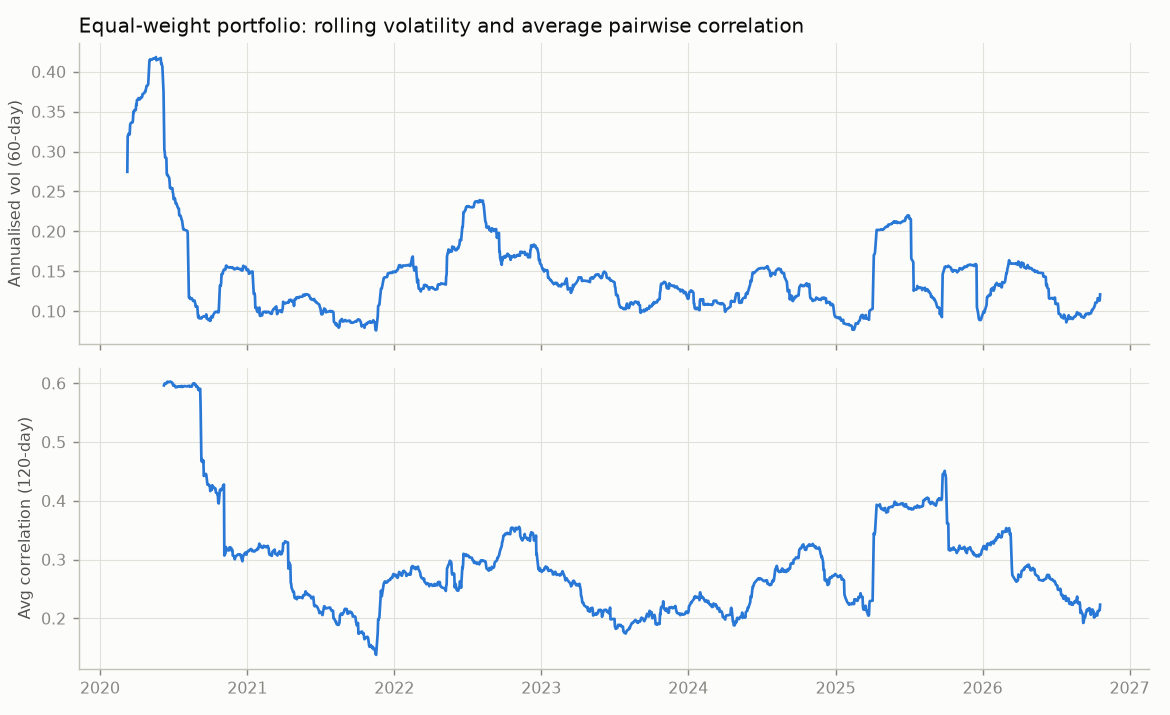
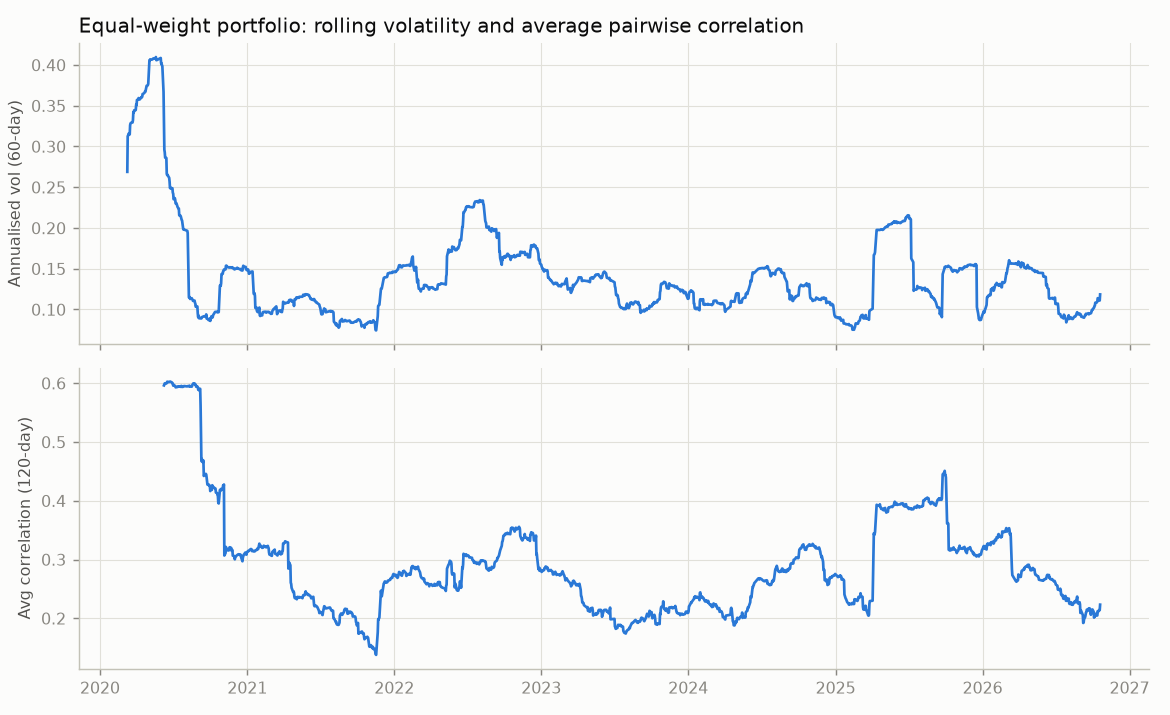
Annualise by observations per calendar year

diff --git a/tailwise/allocation.py b/tailwise/allocation.py
@@ -12,7 +12,7 @@ from scipy.optimize import minimize
 
 from .covariance import H, METHODS, SEED, WINDOW
 from .data import ROOT, load_returns
-from .eda import BLUE, DAYS, ORANGE
+from .eda import BLUE, ORANGE, per_year
 
 OUT = ROOT / "results" / "phase6"
 COST_BPS = 15  # one-way, per unit traded: roughly Tadawul commission; ignores spread and impact
@@ -77,12 +77,12 @@ def block_bootstrap_diff(a, b, stat, block=21, reps=2000, seed=SEED):
     return np.percentile(out, [2.5, 97.5])
 
 
-def ann_vol(r):
-    return r.std() * np.sqrt(DAYS)
+def ann_vol(r, ppy):
+    return r.std() * np.sqrt(ppy)
 
 
-def ann_ret(r):
-    return np.prod(1 + r) ** (DAYS / len(r)) - 1
+def ann_ret(r, ppy):
+    return np.prod(1 + r) ** (ppy / len(r)) - 1
 
 
 def run():
@@ -92,6 +92,8 @@ def run():
     targets = target_weights(x)
     first = targets["equal_weight"][0][0]
     dates = rets.index[first:]
+    ppy = per_year(dates, rets.index[first - 1])
+    vol, ret = (lambda r: ann_vol(r, ppy)), (lambda r: ann_ret(r, ppy))
     wts = pd.DataFrame({(s, rets.index[i].date()): w for s, tw in targets.items() for i, w in tw}, index=rets.columns).T
     wts.to_csv(OUT / "weights.csv", float_format="%.4f")
 
@@ -101,14 +103,14 @@ def run():
         ew = sims["equal_weight"][0]
         for s, (r, to) in sims.items():
             w = np.array([w for _, w in targets[s]])
-            row = dict(strategy=s, cost_bps=c, ann_return=ann_ret(r), ann_vol=ann_vol(r), max_drawdown=max_drawdown(r),
+            row = dict(strategy=s, cost_bps=c, ann_return=ret(r), ann_vol=vol(r), max_drawdown=max_drawdown(r),
                        avg_turnover=to[1:].mean(), avg_max_weight=w.max(axis=1).mean(),
                        avg_effective_n=(1 / (w ** 2).sum(axis=1)).mean())
             if s != "equal_weight":
-                row["vol_diff_vs_ew"] = row["ann_vol"] - ann_vol(ew)
-                row["vol_diff_ci_low"], row["vol_diff_ci_high"] = block_bootstrap_diff(r, ew, ann_vol)
-                row["ret_diff_vs_ew"] = row["ann_return"] - ann_ret(ew)
-                row["ret_diff_ci_low"], row["ret_diff_ci_high"] = block_bootstrap_diff(r, ew, ann_ret)
+                row["vol_diff_vs_ew"] = row["ann_vol"] - vol(ew)
+                row["vol_diff_ci_low"], row["vol_diff_ci_high"] = block_bootstrap_diff(r, ew, vol)
+                row["ret_diff_vs_ew"] = row["ann_return"] - ret(ew)
+                row["ret_diff_ci_low"], row["ret_diff_ci_high"] = block_bootstrap_diff(r, ew, ret)
             rows.append(row)
             if c == COST_BPS:
                 daily[s] = r

diff --git a/tailwise/eda.py b/tailwise/eda.py
@@ -9,10 +9,9 @@ import pandas as pd
 from matplotlib.colors import LinearSegmentedColormap
 from scipy import stats
 
-from .data import ROOT, UNIVERSE, load_returns, load_tasi_returns
+from .data import ROOT, START, UNIVERSE, load_returns, load_tasi_returns
 
 OUT = ROOT / "results" / "phase1"
-DAYS = 250  # annualisation convention; Tadawul has ~245-250 sessions a year
 BLUE, ORANGE, INK2, MUTED = "#2a78d6", "#eb6834", "#52514e", "#898781"
 SEQ = LinearSegmentedColormap.from_list("blues", ["#f0efec", "#86b6ef", "#2a78d6", "#0d366b"])
 
@@ -24,12 +23,18 @@ plt.rcParams.update({
 })
 
 
-def summary(r):
+def per_year(dates, start):
+    """Return observations per calendar year, `start` being the price date before the first return.
+    About 240 here, not 250: a return that spans sessions Yahoo lacks still covers real time."""
+    return len(dates) / ((dates[-1] - pd.Timestamp(start)).days / 365.25)
+
+
+def summary(r, ppy):
     """Per-series annualised vol/mean, skew, excess kurtosis, tail frequency vs a normal."""
     z = (r - r.mean()) / r.std()
     return pd.DataFrame({
-        "ann_vol": r.std() * np.sqrt(DAYS),
-        "ann_mean": r.mean() * DAYS,
+        "ann_vol": r.std() * np.sqrt(ppy),
+        "ann_mean": r.mean() * ppy,
         "skew": r.skew(),
         "excess_kurt": r.kurt(),
         "min": r.min(),
@@ -47,7 +52,8 @@ def run():
     tasi = load_tasi_returns()
     # align TASI to the return dates; an extra all-NaN row would change the tail-frequency denominators
     table = pd.concat([rets, ew] + ([tasi.loc[rets.index].rename("TASI")] if tasi is not None else []), axis=1)
-    s = summary(table)
+    ppy = per_year(rets.index, START)
+    s = summary(table, ppy)
     s.insert(0, "name", [UNIVERSE.get(c, c) for c in s.index])
     s.to_csv(OUT / "summary_stats.csv", float_format="%.5f")
 
@@ -69,7 +75,7 @@ def run():
     plt.close(fig)
 
     # rolling risk: EW volatility and average pairwise correlation, two panels sharing time (no dual axis)
-    roll_vol = ew.rolling(60).std() * np.sqrt(DAYS)
+    roll_vol = ew.rolling(60).std() * np.sqrt(ppy)
     n = rets.shape[1]
     roll_corr = rets.rolling(120).corr().groupby(level=0).apply(lambda m: (m.values.sum() - n) / (n * n - n))
     fig, (a1, a2) = plt.subplots(2, 1, figsize=(9, 5.5), sharex=True)

diff --git a/tailwise/covariance.py b/tailwise/covariance.py
@@ -12,12 +12,13 @@ from arch import arch_model
 from scipy import stats
 
 from .data import ROOT, load_returns
-from .eda import DAYS  # also applies the shared plot style
+from . import eda  # noqa: F401  applies the shared plot style
 
 OUT = ROOT / "results" / "phase2"
 WINDOW = 250  # rolling estimation window, about one year
 H = 21  # forecast horizon and step, about one month; origins do not overlap
 SEED = 2026
+DAYS = 250  # chart axis only (forecast vs realised, annualised); see README known limitations
 N_RANDOM = 5
 COLORS = {"sample_250": "#2a78d6", "sample_expanding": "#eb6834", "ledoit_wolf_250": "#1baf7a", "garch_ccc": "#6250d6"}
 

diff --git a/tests/test_allocation.py b/tests/test_allocation.py
@@ -1,4 +1,5 @@
 import numpy as np
+import pandas as pd
 import pytest
 
 from tailwise import allocation as al
@@ -41,3 +42,9 @@ def test_simulate_costs_and_drift():
     drifted = np.array([0.55, 0.5]) / 1.05
     assert to[1] == pytest.approx(np.abs(np.array([0.5, 0.5]) - drifted).sum())
     assert r[5] == pytest.approx(0.05)
+
+
+def test_per_year_counts_observations_per_calendar_year():
+    from tailwise.eda import per_year
+    dates = pd.date_range("2021-01-04", "2021-12-31", periods=240)
+    assert per_year(dates, "2020-12-31") == pytest.approx(240, rel=0.01)

diff --git a/README.md b/README.md
@@ -113,8 +113,10 @@ correction (as a vendor would make), not a model input.
 
 Full-sample descriptive statistics (`results/phase1/summary_stats.csv`), not used by any model.
 
-- **Volatility:** annualised volatility ranges from 17% (Aramco) to 35% (Ma'aden). The equal-weight
-  (EW) portfolio runs at 16%, well below any single stock: diversification does real work here.
+- **Volatility:** annualised volatility ranges from 16.5% (Aramco) to 34.6% (Ma'aden). The
+  equal-weight (EW) portfolio runs at 15.3%, well below any single stock: diversification does
+  real work here. Annualised with the panel's 240 observations per calendar year (see Known
+  Limitations 3 and 18).
 - **Correlation:** mean pairwise correlation is 0.32. Banks form the tightest block (up to 0.61),
   followed by the petrochemicals. Healthcare, insurance, and Ma'aden are the least connected.
   The 120-day average correlation swung from 0.60 (2020) to 0.14 (late 2021), so a single
@@ -123,8 +125,8 @@ Full-sample descriptive statistics (`results/phase1/summary_stats.csv`), not use
   excess kurtosis 11.6 and skew −0.87: moves beyond 3 standard deviations happen on 1.16% of
   days versus 0.27% under a normal, and the large ones are mostly on the downside.
   This is a first warning for any normal (parametric) VaR.
-- **Volatility clustering:** 60-day EW volatility ranged from about 8% to 42% (peak May 2020).
-- **TASI** (price index, same dates): volatility 15.4%, skew −1.17, excess kurtosis 12.6, moves
+- **Volatility clustering:** 60-day EW volatility ranged from about 7% to 41% (peak May 2020).
+- **TASI** (price index, same dates): volatility 15.1%, skew −1.17, excess kurtosis 12.6, moves
   beyond 3 standard deviations on 1.28% of days. The market index is as fat-tailed as the
   portfolio.
 
@@ -422,24 +424,25 @@ Full results: `results/phase6/performance.csv`.
 
 | Strategy (15 bps) | Return p.a. | Volatility p.a. | Max drawdown | Monthly turnover | Effective no. of stocks |
 |---|---|---|---|---|---|
-| equal_weight | 7.8% | 13.8% | 20.3% | 5% | 24 |
-| min_var_sample_250 | 7.2% | 11.6% | 18.8% | 20% | 5.1 |
-| min_var_garch_ccc | 4.8% | 11.6% | 23.9% | 63% | 5.6 |
+| equal_weight | 7.5% | 13.5% | 20.3% | 5% | 24 |
+| min_var_sample_250 | 6.8% | 11.3% | 18.8% | 20% | 5.1 |
+| min_var_garch_ccc | 4.6% | 11.3% | 23.9% | 63% | 5.6 |
 
-Volatility vs equal-weight: −2.2 points for both, 95% CI about (−2.8, −1.4): **significant**.
-Return vs equal-weight: −0.6 points for sample (CI −7.6 to +5.5) and −3.0 for GARCH (CI −10.7 to
-+3.5): **not significant**.
+Returns and volatilities are annualised with the observations per calendar year in the test
+period (about 239). Volatility vs equal-weight: −2.1 points for both, 95% CI about (−2.8, −1.4):
+**significant**. Return vs equal-weight: −0.6 points for sample (CI −7.2 to +5.3) and −2.9 for
+GARCH (CI −10.2 to +3.3): **not significant**.
 
 ![Min-variance vs equal-weight](results/phase6/cumulative.png)
 
 **What this says**
 
-- **Minimum variance does what it promises:** about 2.2 points lower volatility than
+- **Minimum variance does what it promises:** about 2.1 points lower volatility than
   equal-weight, a reduction the bootstrap says is real.
 - **The better covariance forecast does not make a better portfolio.** GARCH-CCC gives exactly
   the same volatility reduction as the plain sample covariance, but trades three times as much
   (63% vs 20% of the portfolio a month) because its volatility forecasts move every month. After
-  costs it returns 2.4 points a year less than the sample version and has the deepest drawdown
+  costs it returns 2.3 points a year less than the sample version and has the deepest drawdown
   of the three (23.9%, April–December 2022). Phase 2's small, insignificant forecasting edge does
   not survive contact with an optimiser and costs.
 - **The portfolios are concentrated.** Half of the 24 stocks get zero weight; on average the
@@ -503,10 +506,11 @@ Kept up to date as the project goes.
 17. **Price index vs total return.** TASI excludes dividends, so all benchmark comparisons use
     price returns. Saudi dividend yields are high (about 3.4 points a year for the equal-weight
     portfolio here), so comparing a total-return portfolio with TASI would overstate it.
-18. **Inconsistent annualisation.** Phases 1 and 6 annualise with 250 observations a year, but
-    the panel has about 240 because of the sessions Yahoo lacks (limitation 3); this overstates
-    annualised returns there by roughly 4% of their value (e.g. 7.8% would be about 7.5%) and
-    volatilities by about 2%. The benchmark section annualises by calendar time and is not
-    affected. Left as is so that adding TASI changed no earlier result.
+18. **Annualisation.** Daily statistics are annualised with the number of observations per
+    calendar year (about 240), not the usual 250, because returns that span sessions Yahoo lacks
+    still cover real time (limitation 3). An earlier version used 250 and overstated Phase 1 and 6
+    annualised figures by about 4% (returns) and 2% (volatility). The axis of the Phase 2 chart
+    of forecast vs realised volatility still uses 250; it is display only and no reported number
+    depends on it.
 19. **One TASI source.** The TASI file is a single static export from the Saudi Exchange. It passes
     the schema and range checks above, but was not cross-checked against a second source.
